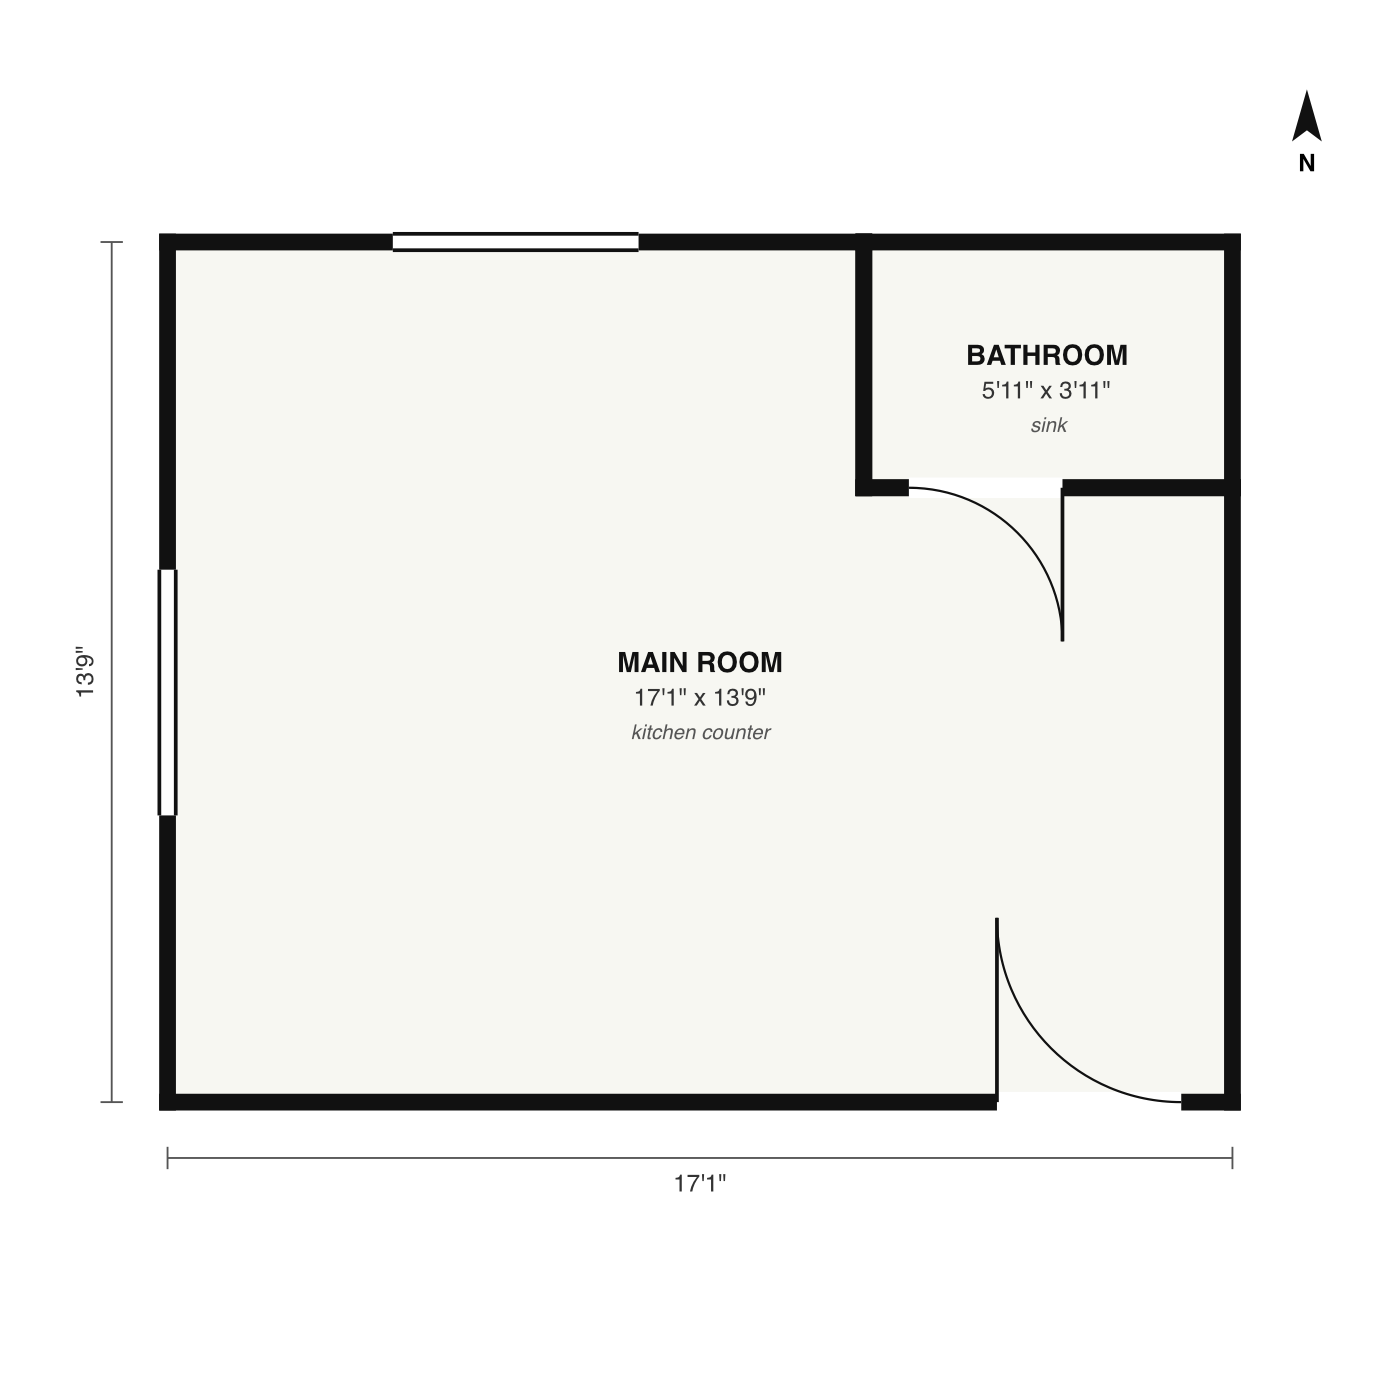
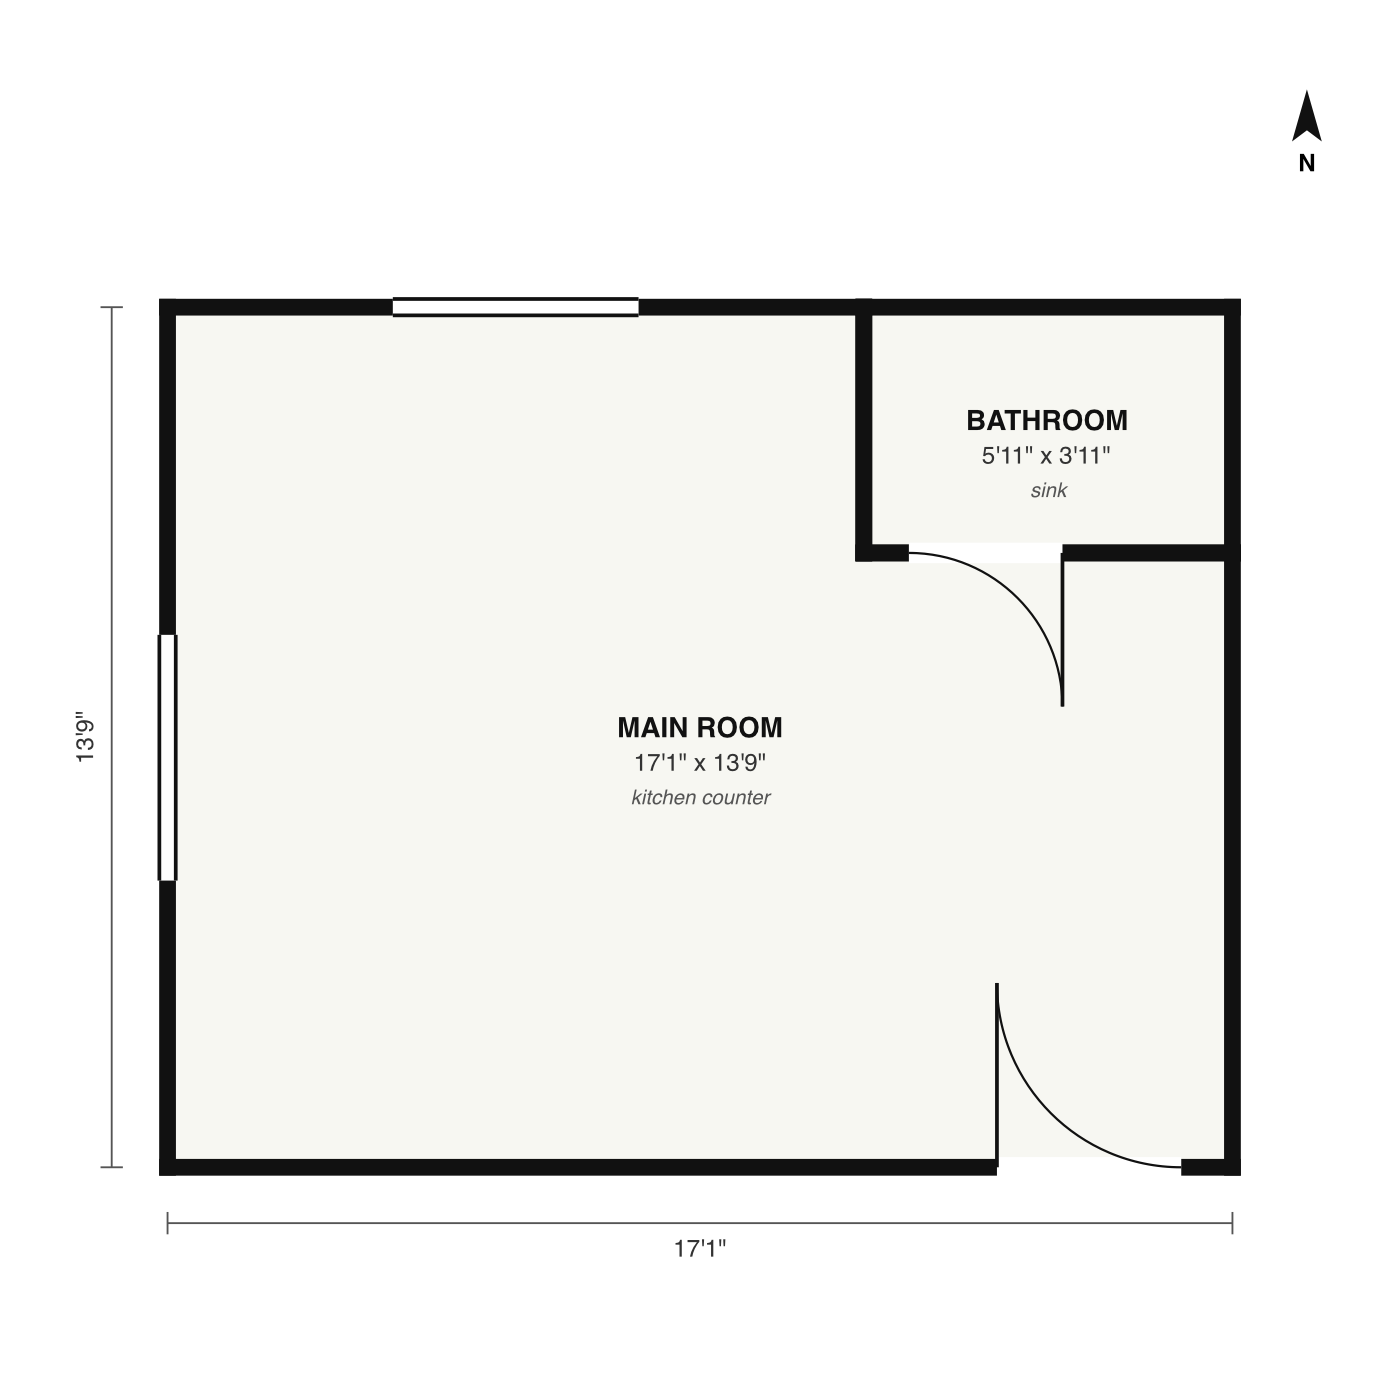
plan: square canvas so wide plans are not cropped; scale falls back to the longest label instead of NaN
Found by the first live Argon run on our plan images: rooms 7/7, doors and windows 13/13,
median dimension error 0.1-3.2% after the fix (3 clean drawings we made; not a benchmark).
Logged in eval/failures.md.

diff --git a/packages/plan/src/listing.ts b/packages/plan/src/listing.ts
@@ -10,20 +10,26 @@ export function feetInches(m: number): string {
   return `${Math.floor(totalIn / 12)}'${totalIn % 12}"`;
 }
 
-export function renderListingSvg(plan: FloorPlan, opts: { pxPerM?: number; title?: string } = {}): string {
+/** square: pad the canvas to a square so square thumbnailers (e.g. macOS Quick Look) do not crop wide plans. */
+export function renderListingSvg(plan: FloorPlan, opts: { pxPerM?: number; title?: string; square?: boolean } = {}): string {
   const k = opts.pxPerM ?? 110;
   const m = 90;
   const xs = plan.rooms.flatMap((r) => r.polygon.map((p) => p[0]));
   const ys = plan.rooms.flatMap((r) => r.polygon.map((p) => p[1]));
   const [minX, maxX, minY, maxY] = [Math.min(...xs), Math.max(...xs), Math.min(...ys), Math.max(...ys)];
-  const W = Math.round((maxX - minX) * k + 2 * m);
-  const H = Math.round((maxY - minY) * k + 2 * m + 40);
-  const X = (x: number) => m + (x - minX) * k;
-  const Y = (y: number) => m + 40 + (maxY - y) * k;
+  const W0 = Math.round((maxX - minX) * k + 2 * m);
+  const H0 = Math.round((maxY - minY) * k + 2 * m + 40);
+  const S = Math.max(W0, H0);
+  const W = opts.square ? S : W0;
+  const H = opts.square ? S : H0;
+  const padX = (W - W0) / 2;
+  const padY = (H - H0) / 2;
+  const X = (x: number) => padX + m + (x - minX) * k;
+  const Y = (y: number) => padY + m + 40 + (maxY - y) * k;
   const out: string[] = [];
   out.push(`<svg xmlns="http://www.w3.org/2000/svg" viewBox="0 0 ${W} ${H}" width="${W}" height="${H}" font-family="Helvetica, Arial, sans-serif">`);
   out.push(`<rect width="100%" height="100%" fill="#ffffff"/>`);
-  if (opts.title) out.push(`<text x="${m}" y="40" font-size="20" font-weight="bold" fill="#111">${esc(opts.title)}</text>`);
+  if (opts.title) out.push(`<text x="${padX + m}" y="${padY + 40}" font-size="20" font-weight="bold" fill="#111">${esc(opts.title)}</text>`);
 
   // Floors (light), then walls (thick black), then openings cut into the walls.
   for (const r of plan.rooms) {

diff --git a/packages/plan/src/parse.ts b/packages/plan/src/parse.ts
@@ -158,6 +158,16 @@ export function scaleFromLabels(
     };
     const m0 = median(ratios);
     const kept = ratios.filter((r) => Math.abs(r - m0) / m0 <= 0.15);
+    if (!kept.length) {
+      // Labels disagree with each other (e.g. two labels, far apart). Trust the longest one: it spans the
+      // most pixels, so a misplaced endpoint matters least. Say so.
+      const longest = labels
+        .filter((l) => l.meters && l.meters > 0)
+        .map((l) => ({ r: l.meters! / Math.hypot(l.b[0] - l.a[0], l.b[1] - l.a[1]), len: Math.hypot(l.b[0] - l.a[0], l.b[1] - l.a[1]) }))
+        .filter((x) => Number.isFinite(x.r) && x.r > 0)
+        .sort((a, b) => b.len - a.len)[0]!;
+      return { metersPerPixel: longest.r, scaleSource: 'labels', warnings: [`dimension labels disagree by >15%; scale taken from the longest label only`] };
+    }
     const warnings = kept.length < ratios.length ? [`${ratios.length - kept.length} dimension label(s) disagreed with the others by >15% and were ignored`] : [];
     return { metersPerPixel: median(kept), scaleSource: 'labels', warnings };
   }

diff --git a/packages/plan/test/parse.test.ts b/packages/plan/test/parse.test.ts
@@ -50,6 +50,11 @@ describe('scale', () => {
     expect(s.metersPerPixel).toBeCloseTo(0.01);
     expect(s.warnings.length).toBe(1);
   });
+  it('uses the longest label when two labels disagree (never NaN)', () => {
+    const s = scaleFromLabels([{ meters: 4, a: [0, 0], b: [400, 0] }, { meters: 9.6, a: [0, 0], b: [600, 0] }]);
+    expect(s.metersPerPixel).toBeCloseTo(0.016);
+    expect(s.warnings[0]).toMatch(/longest label/);
+  });
   it('falls back to an assumption with a warning', () => {
     const s = scaleFromLabels([]);
     expect(s.scaleSource).toBe('assumed');

diff --git a/packages/plan/src/build-plan-images.ts b/packages/plan/src/build-plan-images.ts
@@ -11,7 +11,7 @@ mkdirSync(out, { recursive: true });
 for (const name of listPlanFixtures()) {
   const plan = loadPlanFixture(name);
   const svgPath = join(out, `${name}.svg`);
-  writeFileSync(svgPath, renderListingSvg(plan, { title: name === 'demo-table' ? 'Unit 4B' : undefined }) + '\n');
+  writeFileSync(svgPath, renderListingSvg(plan, { title: name === 'demo-table' ? 'Unit 4B' : undefined, square: true }) + '\n');
   try {
     execFileSync('qlmanage', ['-t', '-s', '1400', '-o', out, svgPath], { stdio: 'ignore' });
     const ql = join(out, `${name}.svg.png`);

diff --git a/Elmir.md b/Elmir.md
@@ -2,6 +2,13 @@
 
 Owns the workspace scaffold, shared contract, plan parser, fixtures, and evaluation (`packages/shared`, `packages/plan`, and `packages/eval`, E1–E5).
 
+## 2026-11-21 11:33 ET · First LIVE Gemini calls (event key in git-ignored `.env`)
+
+- Key works: Hydrogen 1.0 s, Neon (paid tier) 3.0 s, **Decisions API 0.5 s** with sensible answers. Billing is on.
+- **Argon on our 3 listing-style plan images** (same prompt as parsePlan, JSON schema enforced): rooms 7/7, doors+windows 13/13, median dimension error 0.1-3.2%, 8-10 s per plan. Scored with the repo's `planFromArgon` + `scorePlan`. Without a response schema Argon once returned malformed JSON, so R1's schema enforcement matters.
+- Two bugs found and fixed (see `eval/failures.md`): cropped PNG for wide plans (square canvas now), NaN scale when two labels disagree (longest label now).
+- These live calls were exploration from a throwaway script outside the repo; repo code still calls Gemini only through `packages/gemini` (plan-eval waits for R1).
+
 ## 2026-11-21 11:21 ET · E3 plan images + plan accuracy (branch `elmir/e3-plan-images`)
 
 - **PRs #7 and #9 are both in `main`** (Rahim merged #9 into the E2 branch, then #7 into main).

diff --git a/eval/failures.md b/eval/failures.md
@@ -1,3 +1,11 @@
 # Failures log
 
 One entry per failure: input, what broke, the fix, did it help (measured on dev).
+
+## 11:33 · plan parsing · one-bed-railroad (Elmir)
+- **Input:** listing-style image of a 3-room railroad plan (31'6" wide), Argon via the parsePlan prompt and schema.
+- **What broke:** Argon returned 2 of 3 rooms and 3 of 5 openings, and our scale came out NaN.
+- **Cause 1 (ours):** macOS Quick Look makes square thumbnails, so the PNG of the wide plan was cropped and the bedroom was not in the image at all. Argon read what it was given correctly.
+- **Cause 2 (ours):** with only two dimension labels that disagree by >15%, the outlier filter dropped both and took the median of nothing.
+- **Fix:** draw plans on a square canvas; when every label disagrees, use the longest label and warn.
+- **Did it help:** live re-run, all 3 plans: rooms 7/7, doors and windows 13/13, median room-dimension error 0.1-3.2%. Small set of clean drawings we made ourselves; not a benchmark.
